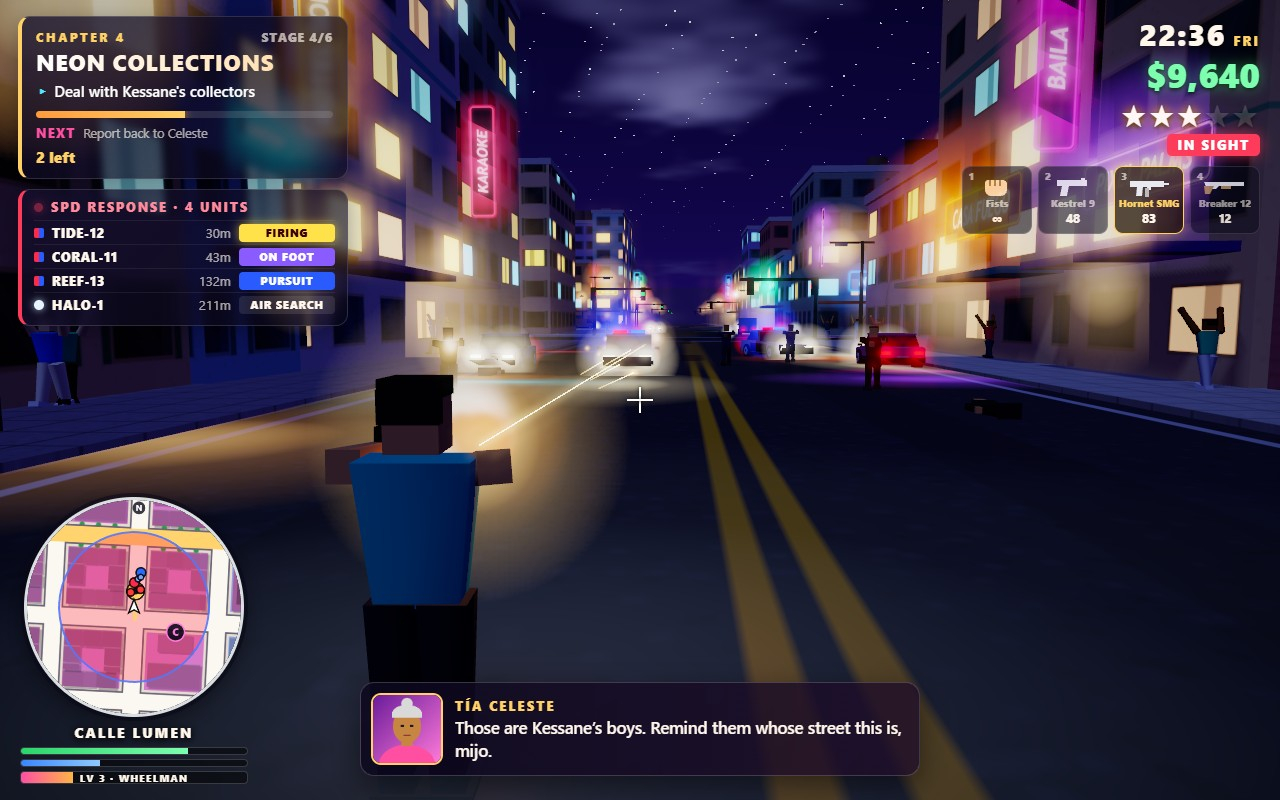
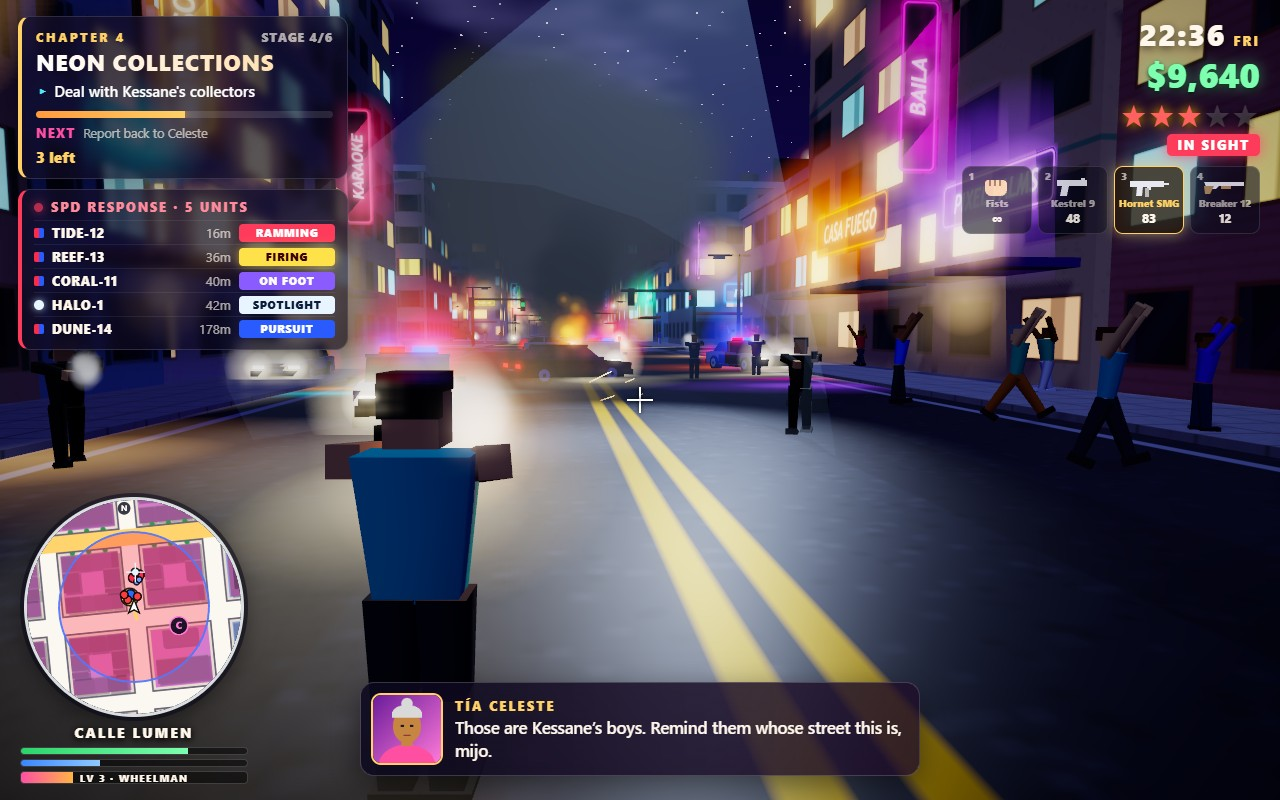
Closer, busier shootout and causeway shots; camera look-back fix
- Calle Lumen shootout: collectors at close range, their getaway car burning, a third patrol,
  HALO-1's searchlight on the street at three stars, bystanders running past with hands up
- Causeway run: the camera swung to the front of the bike with five units, window fire,
  sparks and HALO-1 right behind
- CameraRig: no look-ahead when the view is orbited to the front of a vehicle
- Speed streaks fade when the camera looks back

diff --git a/game/src/shots/screenshotDirector.js b/game/src/shots/screenshotDirector.js
@@ -158,22 +158,41 @@ const SCENES = {
     game.dialogue.stopIfFrom();
     game.missions.advance(); game.missions.advance(); game.missions.advance();
     const h = game.missions.hostiles.active;
-    const spots = [[-405, -233], [-397, -237], [-408, -241], [-394, -229]];
+    const spots = [[-407, -225.5], [-398.5, -228], [-410.5, -232], [-395, -231]];
     h.forEach((a, k) => { if (spots[k]) { a.fig.x = spots[k][0]; a.fig.z = spots[k][1]; a.post = { x: spots[k][0], z: spots[k][1] }; a.alerted = true; } });
-    if (h[2]) h[2].takeHit(500, 'player');
     if (h[3]) h[3].takeHit(500, 'player');
+    // the collectors' getaway car takes a stray round to the tank
+    const getaway = game.vehicles.spawn('sedan', -401, -244, Math.PI / 2 + 0.4, { role: 'parked', paint: 0x15151c });
+    game.vehicles.explode(getaway);
     game.police.setWanted(2);
-    const u = addUnit(game, 'patrol', -396, -258, 0.35, 4);
+    const u = addUnit(game, 'patrol', -392, -254, 0.35, 4);
     u.status = 'ON FOOT';
     u.deployed = true;
     game.police.deployOfficers(u, 2);
-    addUnit(game, 'patrol', -404, -275, 0.05, 12);
+    addUnit(game, 'patrol', -410, -262, 0.05, 12);
+    addUnit(game, 'patrol', -397, -285, 0, 14);
     game.peds.scare(-402, -225, 60, false);
     const p = game.player;
     game.input.buttons = 4;
-    game.cameraRig.yaw = 0.05;
-    game.cameraRig.pitch = 0.12;
-    simulate(game, 1.2);
+    game.cameraRig.yaw = -0.1;
+    game.cameraRig.pitch = 0.1;
+    simulate(game, 1.0);
+    game.police.setWanted(3);
+    // HALO-1 lights up the block; bystanders on the east sidewalk run back past the camera
+    const heli = game.police.heli;
+    heli.activate(p.x, p.z);
+    heli.x = -396; heli.z = -262; heli.y = 26; heli.heading = Math.PI / 2 + 0.5;
+    heli.aim.set(-402, 0, -229);
+    const runners = game.peds.people.filter((q) => !q.dead).slice(0, 6);
+    runners.forEach((q, k) => {
+      q.fig.x = -391.5 - (k % 3) * 1.6; q.fig.z = -219 - k * 2.6; q.fig.visible = true;
+      q.state = 'flee'; q.fear = 8; q.threat = { x: -402, z: -245 };
+    });
+    simulate(game, 0.25, 0.25);
+    heli.x = -396; heli.z = -262; heli.y = 26;
+    heli.aim.set(-402, 0, -229);
+    heli.update(0, { x: p.x, z: p.z });
+    for (const a of h) if (!a.dead) a.fig.aim = true;
     game.state.ammo.smg = 87;
     for (let k = 0; k < 3; k += 1) { p.fireCooldown = 0; p.fire(); game.step(STEP * 3); }
     p.fireCooldown = 0;
@@ -239,26 +258,37 @@ const SCENES = {
     game.autopilot = null;
     const pb = bike.body;
     game.police.setWanted(2);
-    addUnit(game, 'patrol', pb.x - 5, -302.5, Math.PI / 2, pb.speed);
-    addUnit(game, 'patrol', pb.x - 10, -297, Math.PI / 2, pb.speed);
-    const flank = game.police.units.slice(0, 2);
-    flank.forEach((u, k) => {
+    // the pack behind the bike, two lanes wide, and a tactical van at the back
+    const slots = [[-6, -299.5, 0.05, 'RAMMING'], [-11, -305.5, 0.02, 'FIRING'], [-17, -293.5, -0.03, 'PURSUIT'], [-25, -301, 0, 'FIRING'], [-36, -296, 0, 'PURSUIT']];
+    slots.forEach((s, k) => addUnit(game, k === 4 ? 'swat' : 'patrol', pb.x + s[0], s[1], Math.PI / 2 + s[2], pb.speed));
+    const pack = game.police.units.slice();
+    pack.forEach((u, k) => {
       const b = u.vehicle.body;
-      b.x = pb.x + (k ? -2.5 : 3.5); b.z = k ? -306.5 : -302.2; b.heading = pb.heading + (k ? 0.03 : 0.1);
+      b.x = pb.x + slots[k][0]; b.z = slots[k][1]; b.heading = pb.heading + slots[k][2];
       b.setVelocityForward(pb.speed);
-      u.status = k ? 'PURSUIT' : 'RAMMING';
       game.vehicles.syncMesh(u.vehicle);
     });
-    game.police.setWanted(3);
+    game.police.setWanted(4);
     const heli = game.police.heli;
     heli.activate(pb.x, pb.z);
-    heli.x = pb.x + 60; heli.z = pb.z + 14; heli.y = 21;
-    heli.heading = Math.atan2(pb.x - heli.x, pb.z - heli.z);
-    heli.aim.set(pb.x + 3, 0, pb.z);
-    heli.update(0, { x: pb.x, z: pb.z });
     game.police.inSight = true;
     game.police.lastSeen = { x: pb.x, z: pb.z };
+    // the rider looks back over a shoulder: the camera swings round to the front of the bike
+    for (let i = 0; i < 12; i += 1) {
+      for (const u of pack) u.vehicle.body.setVelocityForward(pb.speed);
+      if (i % 6 === 0) for (const u of pack) if (slots[pack.indexOf(u)][3] === 'FIRING') { u.fireCooldown = 0; game.police.windowFire(u, 12, 0); }
+      game.particles.sparks(pb.x - 5, 0.6, -298.5, 3);
+      game.step(STEP);
+    }
+    pack.forEach((u, k) => { u.status = slots[k][3]; });
+    heli.x = pb.x - 30; heli.z = pb.z - 4; heli.y = 11; heli.heading = Math.PI / 2 - 0.9;
+    heli.aim.set(pb.x - 1, 0, pb.z);
+    heli.update(0, { x: pb.x, z: pb.z });
     game.player.seatRider(bike);
+    game.cameraRig.yaw = pb.heading + 0.4;
+    game.cameraRig.pitch = 0.02;
+    game.cameraRig.orbitIdle = -10;
+    for (let i = 0; i < 30; i += 1) game.cameraRig.update(STEP, { vehicle: bike, position: game.player.figure });
     game.dialogue.pin('dispatch', 'All units: motorcycle eastbound on the Halcyon Causeway. Close the island road!', game.cast);
     game.audio.radio = { nowPlaying: { station: 'RADIO CALOR 94.7', title: 'Noche de Verano', artist: 'Santa Brisa', art: 'linear-gradient(135deg,#ff3b3b,#ffd166)' } };
     game.cameraRig.shake = 0;

diff --git a/game/src/render/cameraRig.js b/game/src/render/cameraRig.js
@@ -77,7 +77,9 @@ export class CameraRig {
       const dist = (view.dist + Math.min(speed, 50) * view.perSpeed) * size;
       const height = view.height * size + Math.max(0, this.pitch) * 5;
       desired = new THREE.Vector3(b.x + Math.sin(this.yaw) * dist, b.y + height, b.z + Math.cos(this.yaw) * dist);
-      const lead = Math.min(speed, 40) * 0.16;
+      // look ahead of the car, but not when the view has been swung round to its front
+      this.forwardness = Math.max(0, Math.cos(wrapAngle(this.yaw - behind)));
+      const lead = Math.min(speed, 40) * 0.16 * this.forwardness;
       lookAt = new THREE.Vector3(b.x + Math.sin(b.heading) * lead, b.y + view.lookUp * size, b.z + Math.cos(b.heading) * lead);
       fov = view.fov + clamp(speed, 0, 60) * view.fovGain;
     } else {

diff --git a/game/src/core/game.js b/game/src/core/game.js
@@ -395,7 +395,7 @@ export class Game {
     this.particles.sync(this.renderer, this.camera);
     this.post.composite.uniforms.flash.value = this.particles.screenFlash;
     const pv = this.running ? this.player.vehicle : null;
-    this.post.setSpeed(pv ? (pv.body.speed - 24) / 26 : 0);
+    this.post.setSpeed(pv ? ((pv.body.speed - 24) / 26) * (this.cameraRig.forwardness ?? 1) ** 2 : 0);
     this.post.render(this.scene, this.camera);
     if (this.running) {
       this.hud.update(dt);

diff --git a/game/src/ai/policeHelicopter.js b/game/src/ai/policeHelicopter.js
@@ -158,7 +158,7 @@ export class PoliceHelicopter {
     this.beam.material.opacity = (0.08 + night * 0.04) * near;
     this.pool.position.set(this.aim.x, 0.15, this.aim.z);
     this.pool.scale.set(radius * 2.6, 1, radius * 2.6);
-    this.pool.material.opacity = (0.12 + night * 0.38) * Math.max(0.3, near);
+    this.pool.material.opacity = (0.12 + night * 0.24) * Math.max(0.3, near);
     this.lamp = { x: lx, y: ly, z: lz };
   }
 
